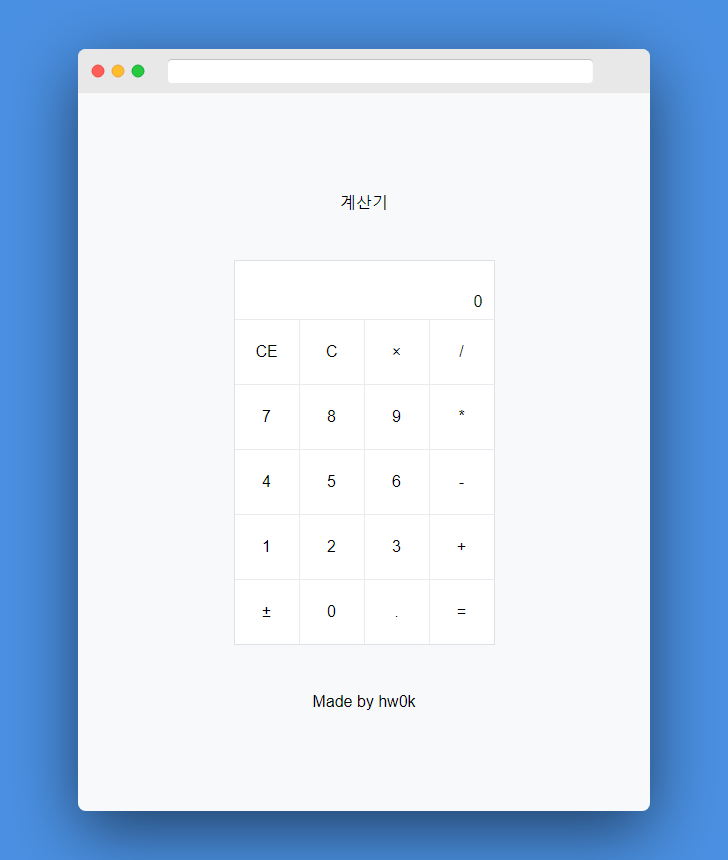
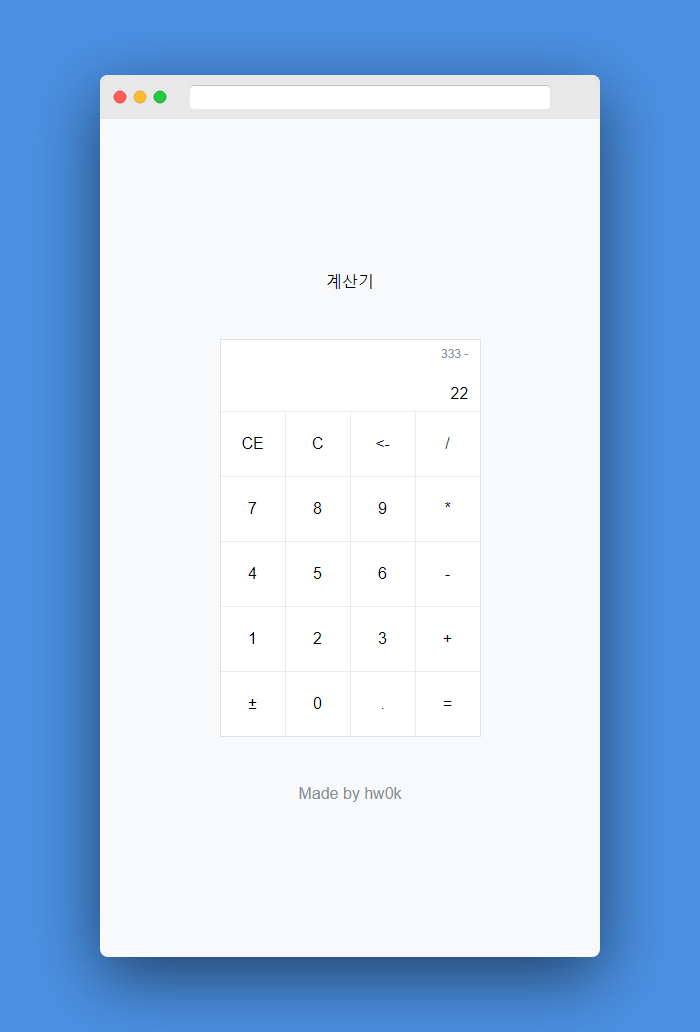
Change screenshot

diff --git a/src/containers/CalculatorContainer.tsx b/src/containers/CalculatorContainer.tsx
@@ -4,8 +4,13 @@ import styled from 'styled-components';
 import Field from './../components/Field';
 import Cell from './../components/Cell';
 
+interface ITextProps {
+  isWeak?: boolean;
+}
+
 const Text = styled.div`
   margin: 3rem 0;
+  color: ${(p: ITextProps) => p.isWeak && `var(--oc-gray-6)`};
 `;
 
 const Wrapper = styled.div`
@@ -20,51 +25,70 @@ const Grid = styled.div`
 interface ICalculatorState {
   value: number;
   stored: number;
+  currentOp: Operator;
 }
 
 class CalculatorContainer extends React.Component<{}, ICalculatorState> {
-  state = {
+  state: ICalculatorState = {
     value: 0,
-    stored: 0
+    stored: 0,
+    currentOp: '?'
   }
 
   handleChange = (e: React.ChangeEvent<HTMLInputElement>) => {
     this.setState({
+      ...this.state,
       value: parseInt(e.target.value)
+    });
+  }
+
+  handleNumberClick = (number: number) => {
+    this.setState({
+      ...this.state,
+      value: parseInt(this.state.value.toString() + number.toString())
+    });
+  }
+
+  handleOperatorClick = (operator: Operator) => {
+    const storedValue = this.state.value;
+    this.setState({
+      value: 0,
+      stored: storedValue,
+      currentOp: operator
     });
   }
   
   render() {
-    const { value } = this.state;
+    const { value, stored, currentOp } = this.state;
     return (
       <React.Fragment>
-      <Text>계산기</Text>
-      <Wrapper>
-        <Field value={value} onChange={this.handleChange} />
-        <Grid>
-          <Cell text="CE" />
-          <Cell text="C" />
-          <Cell text="&times;" />
-          <Cell text="/" />
-          <Cell text="7" />
-          <Cell text="8" />
-          <Cell text="9" />
-          <Cell text="*" />
-          <Cell text="4" />
-          <Cell text="5" />
-          <Cell text="6" />
-          <Cell text="-" />
-          <Cell text="1" />
-          <Cell text="2" />
-          <Cell text="3" />
-          <Cell text="+" />
-          <Cell text="±" />
-          <Cell text="0" />
-          <Cell text="." />
-          <Cell text="=" />
-        </Grid>
-      </Wrapper>
-      <Text>Made by hw0k</Text>
+        <Text>계산기</Text>
+        <Wrapper>
+          <Field value={value} stored={stored} currentOp={currentOp} onChange={this.handleChange} />
+          <Grid>
+            <Cell text="CE" onClick={() => this.setState({...this.state, value: 0})} />
+            <Cell text="C" onClick={() => this.setState({value: 0, stored: 0, currentOp: '?'})} />
+            <Cell text="<-" />
+            <Cell text="/" onClick={() => this.handleOperatorClick('/')} />
+            <Cell text="7" onClick={() => this.handleNumberClick(7)} />
+            <Cell text="8" onClick={() => this.handleNumberClick(8)} />
+            <Cell text="9" onClick={() => this.handleNumberClick(9)} />
+            <Cell text="*" onClick={() => this.handleOperatorClick('*')} />
+            <Cell text="4" onClick={() => this.handleNumberClick(4)} />
+            <Cell text="5" onClick={() => this.handleNumberClick(5)} />
+            <Cell text="6" onClick={() => this.handleNumberClick(6)} />
+            <Cell text="-" onClick={() => this.handleOperatorClick('-')} />
+            <Cell text="1" onClick={() => this.handleNumberClick(1)} />
+            <Cell text="2" onClick={() => this.handleNumberClick(2)} />
+            <Cell text="3" onClick={() => this.handleNumberClick(3)} />
+            <Cell text="+" onClick={() => this.handleOperatorClick('+')} />
+            <Cell text="±" onClick={() => this.handleNumberClick(3)} />
+            <Cell text="0" onClick={() => this.handleNumberClick(0)} />
+            <Cell text="." />
+            <Cell text="=" />
+          </Grid>
+        </Wrapper>
+        <Text isWeak={true}>Made by hw0k</Text>
       </React.Fragment>
     );
   }

diff --git a/src/components/Field.tsx b/src/components/Field.tsx
@@ -3,13 +3,22 @@ import styled from 'styled-components';
 
 interface IFieldProps {
   value: number;
+  stored: number;
+  currentOp: Operator;
   onChange: (e: React.ChangeEvent<HTMLInputElement>) => void;
 }
 
 const S = {
   Wrapper: styled.div`
     display: flex;
-    flex-wrap: wrap;
+    flex-flow: column wrap;
+  `,
+  Text: styled.div`
+    background-color: var(--oc-white);
+    padding: 0.5rem 0.7rem;
+    text-align: right;
+    font-size: 0.75em;
+    color: var(--oc-gray-6);
   `,
   Input: styled.input`
     flex: 1;
@@ -25,14 +34,21 @@ const S = {
     }
 
     border: 0;
-    padding: 2rem 0.7rem 0.5rem;
+    padding: 1rem 0.7rem 0.5rem;
   `
 };
 
 const Field: React.FC<IFieldProps> = (props) => {
-  const { value, onChange } = props;
+  const { value, stored, currentOp, onChange } = props;
   return (
     <S.Wrapper>
+      <S.Text>
+        {
+          currentOp !== '?'
+            ? `${stored} ${currentOp}`
+            : ''
+        }
+      </S.Text>
       <S.Input type="number" value={value} onChange={onChange} />
     </S.Wrapper>
   );

diff --git a/src/components/Cell.tsx b/src/components/Cell.tsx
@@ -3,7 +3,7 @@ import styled from 'styled-components';
 
 interface ICellProps {
   text: string;
-  onClick?: any
+  onClick?: () => void
 }
 
 const Wrapper = styled.div`

diff --git a/src/typings.d.ts b/src/typings.d.ts
@@ -1,0 +1,1 @@
+declare type Operator = '+' | '-' | '*' | '/' | '?';
